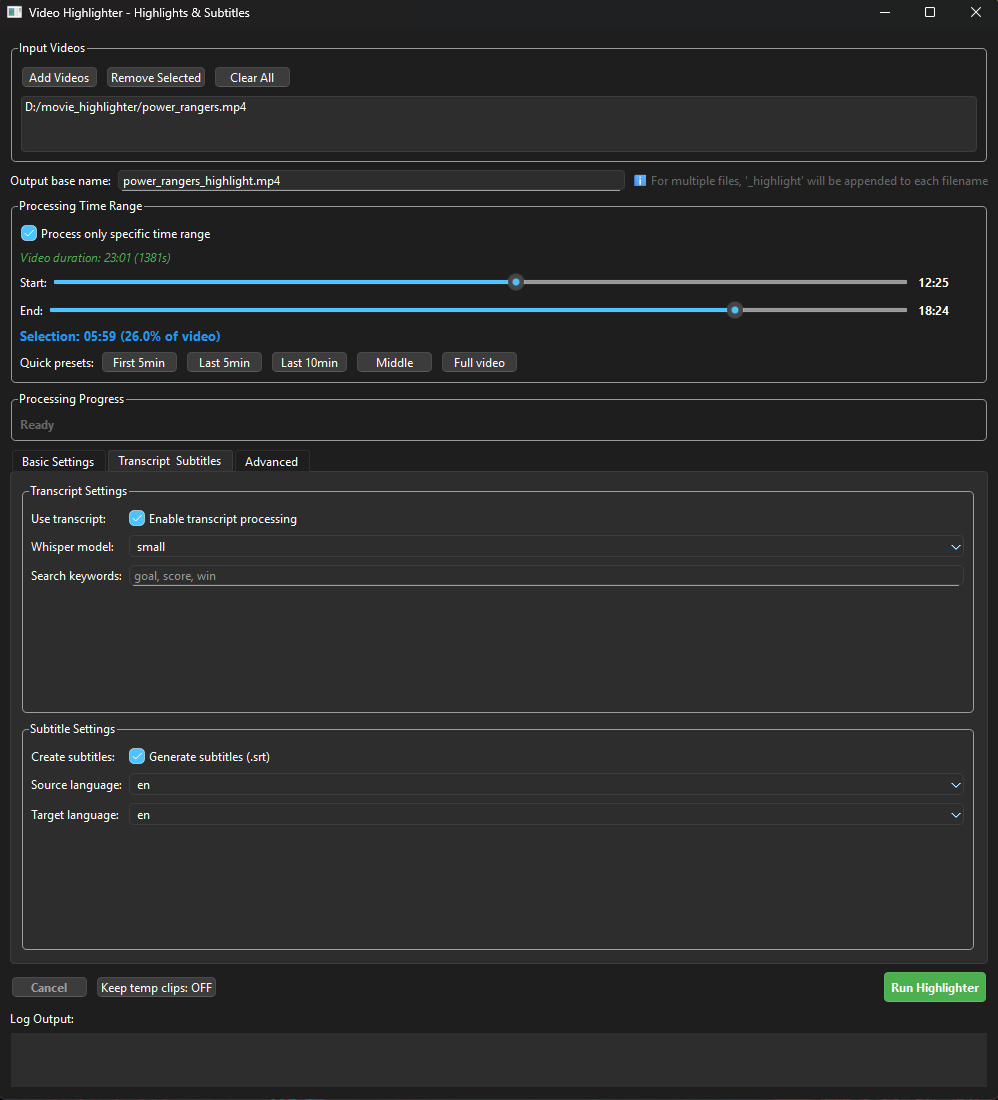
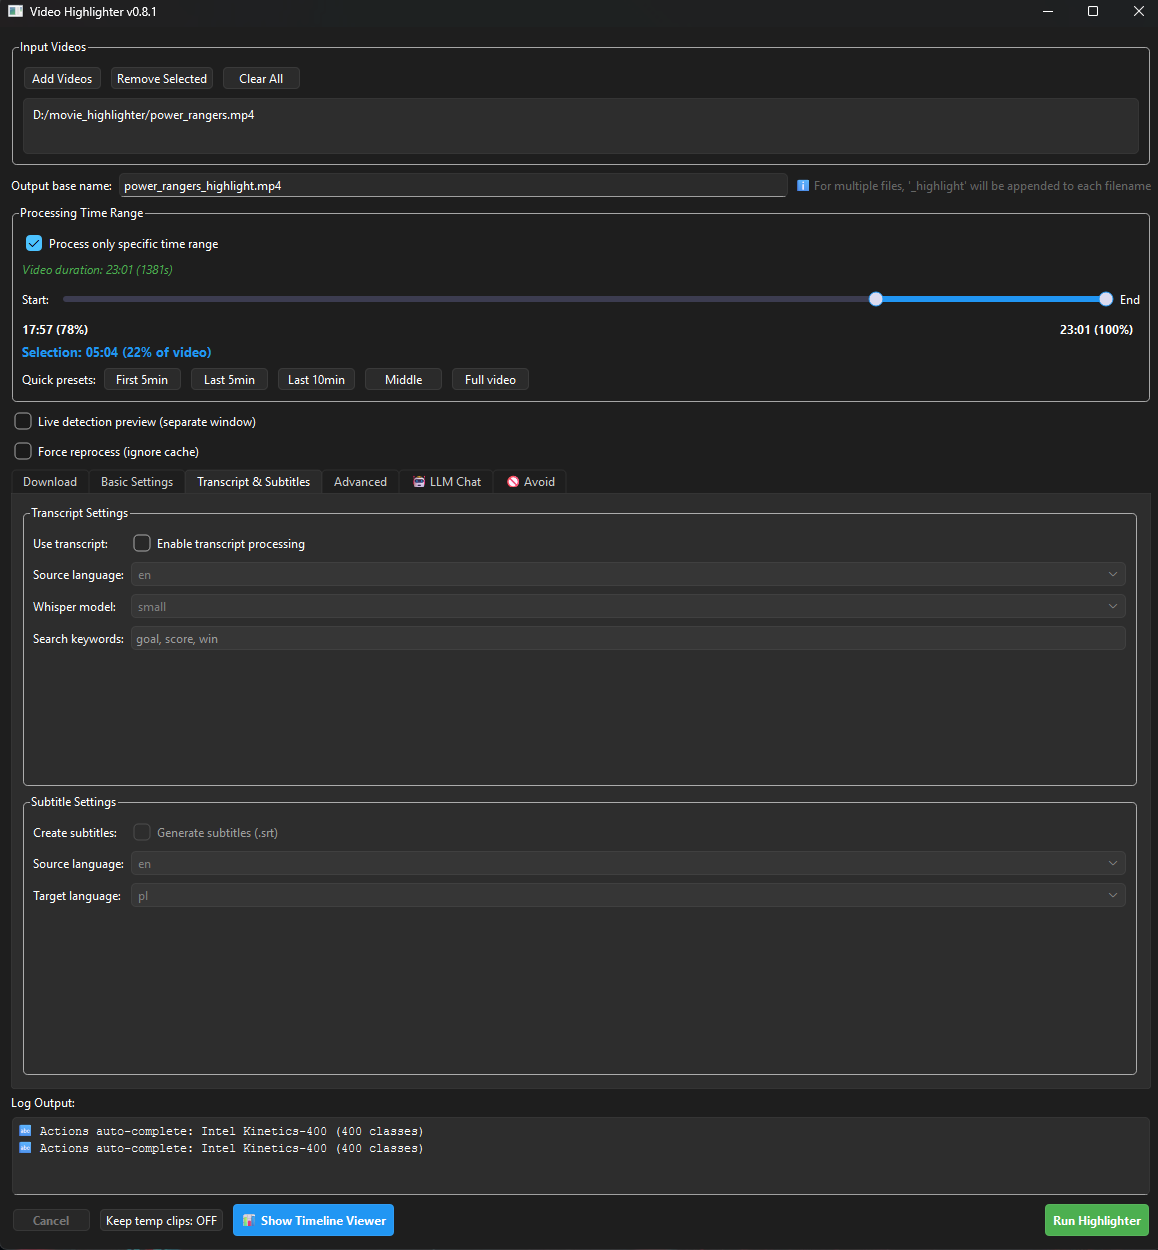
Add manual avoid ranges
Let the user mark regions on the signal timeline that the highlighter must not pick.
- modules/manual_avoid.py: parse_ranges / merge_overlapping / combine data layer,
  now wired in (covered by tests/test_manual_avoid.py — module was missing from the
  repo before, which is why that test errored in CI).
- video_ai_editor/signal_timeline.py: scene stores avoid_ranges and paints them as a
  translucent-red drawForeground overlay (survives clicks/repaints/rebuilds). Drag-
  select a range then right-click → "Avoid this range"; right-click a red range →
  remove that one or clear all.
- signal_timeline_viewer.py: "Avoid selected range" / "Clear" buttons + get_avoid_ranges().
- main.py: reads the live timeline's ranges into gui_config["avoid_manual_ranges"].
- pipeline.py: combines manual ranges with face-identity forbidden ranges and applies
  the skip (zero score + subtract from segments) regardless of the face-avoid toggle.

diff --git a/video_ai_editor/signal_timeline.py b/video_ai_editor/signal_timeline.py
@@ -128,6 +128,7 @@ class SignalTimelineScene(QGraphicsScene):
         self.merge_threshold = 0.0
         self.bars = []
         self.row_labels = []
+        self.avoid_ranges = []  # [(start, end)] user-marked ranges excluded from highlights
         self._last_drag_emit = 0  # throttle for time_dragged signal
 
         # Range selection state
@@ -670,6 +671,7 @@ class SignalTimelineScene(QGraphicsScene):
         
         # Draw time markers
         self.draw_time_markers()
+        # (avoid ranges are painted in drawForeground so a repaint can't drop them)
 
         # Restore playhead
         if hasattr(self, 'current_time_seconds'):
@@ -687,6 +689,26 @@ class SignalTimelineScene(QGraphicsScene):
 
         print(f"✅ Timeline rebuilt successfully, final height={height}")
         self.timeline_rebuilt.emit()
+
+    def drawForeground(self, painter, rect):
+        """Paint user-marked avoid ranges on every repaint. Painting (rather than
+        adding scene items) means a partial viewport update on click can never
+        leave them un-drawn, and self.clear() in build_timeline can't remove them."""
+        super().drawForeground(painter, rect)
+        ranges = getattr(self, "avoid_ranges", None)
+        if not ranges:
+            return
+        h = self.sceneRect().height()
+        painter.save()
+        painter.setPen(QPen(QColor(220, 40, 40, 200), 1))
+        painter.setBrush(QColor(220, 40, 40, 55))
+        painter.setFont(QFont("Arial", 9))
+        for start, end in ranges:
+            x = start * self.pixels_per_second
+            w = max(2.0, (end - start) * self.pixels_per_second)
+            painter.drawRect(QRectF(x, 0, w, h))
+            painter.drawText(QPointF(x + 2, 14), "🚫")
+        painter.restore()
 
     def draw_background(self):
         """Draw gradient background with subtle grid"""
@@ -1815,6 +1837,72 @@ class SignalTimelineView(QGraphicsView):
         scene_pos = self.mapToScene(pos)
         return scene.selection_rect_contains(scene_pos)
 
+    # ── avoid-range context menu ───────────────────────────────────────
+    def _avoid_context_menu(self, event):
+        """Right-click menu on a selection: exclude the range from highlights."""
+        scene = self.scene()
+        menu = QMenu(self)
+        act_avoid = menu.addAction("🚫  Avoid this range in highlights")
+        act_clear = menu.addAction("Clear all avoid ranges")
+        if not getattr(scene, "avoid_ranges", None):
+            act_clear.setEnabled(False)
+        chosen = menu.exec(event.globalPosition().toPoint())
+        if chosen is act_avoid:
+            self._add_selection_to_avoid()
+        elif chosen is act_clear and scene is not None:
+            scene.avoid_ranges = []
+            scene.build_timeline()
+
+    def _add_selection_to_avoid(self):
+        scene = self.scene()
+        if scene is None:
+            return
+        t0 = getattr(scene, "_selection_start_time", None)
+        t1 = getattr(scene, "_selection_end_time", None)
+        if t0 is None or t1 is None or abs(t1 - t0) < 0.2:
+            return
+        lo, hi = min(t0, t1), max(t0, t1)
+        ranges = list(getattr(scene, "avoid_ranges", [])) + [(lo, hi)]
+        try:
+            from modules.manual_avoid import merge_overlapping
+            ranges = merge_overlapping(ranges)
+        except Exception:
+            pass
+        scene.avoid_ranges = ranges
+        scene.clear_selection()
+        scene.build_timeline()
+
+    def _avoid_range_at(self, pos):
+        """Index of the avoid range under the cursor, or None."""
+        scene = self.scene()
+        if scene is None or not getattr(scene, "avoid_ranges", None):
+            return None
+        pps = getattr(scene, "pixels_per_second", 0) or 0
+        if pps <= 0:
+            return None
+        t = self.mapToScene(pos).x() / pps
+        for i, (a, b) in enumerate(scene.avoid_ranges):
+            if a <= t <= b:
+                return i
+        return None
+
+    def _avoid_range_menu(self, event, index):
+        """Right-click menu on an existing red avoid range: remove one / clear all."""
+        scene = self.scene()
+        menu = QMenu(self)
+        act_remove = menu.addAction("🗑  Remove this avoid range")
+        act_clear = menu.addAction("Clear all avoid ranges")
+        chosen = menu.exec(event.globalPosition().toPoint())
+        if chosen is act_remove:
+            try:
+                del scene.avoid_ranges[index]
+            except (IndexError, TypeError, AttributeError):
+                pass
+            scene.build_timeline()
+        elif chosen is act_clear:
+            scene.avoid_ranges = []
+            scene.build_timeline()
+
     # ── mouse events ───────────────────────────────────────────────────
 
     def mousePressEvent(self, event):
@@ -1849,6 +1937,18 @@ class SignalTimelineView(QGraphicsView):
                 scene.clear_selection()
             super().mousePressEvent(event)
             return
+
+        # ── 2.5 Right-click: avoid menus (don't pan over selections/ranges) ──
+        if event.button() == Qt.RightButton:
+            hit = self._avoid_range_at(event.pos())
+            if hit is not None:
+                self._avoid_range_menu(event, hit)
+                event.accept()
+                return
+            if self._pos_in_selection(event.pos()):
+                self._avoid_context_menu(event)
+                event.accept()
+                return
 
         # ── 3. Pan ────────────────────────────────────────────────────
         if event.button() in (Qt.RightButton, Qt.MiddleButton):

diff --git a/README.md b/README.md
@@ -74,4 +74,4 @@ This project started as a personal tool to automatically generate subtitles for 
 
 The primary goal remains practical: speed up video analysis, generate highlights, and create accessible subtitles automatically.
 
-![Stars History](assets/star-history-2026423.png)
+![Stars History](assets/star-history-2026630.png)